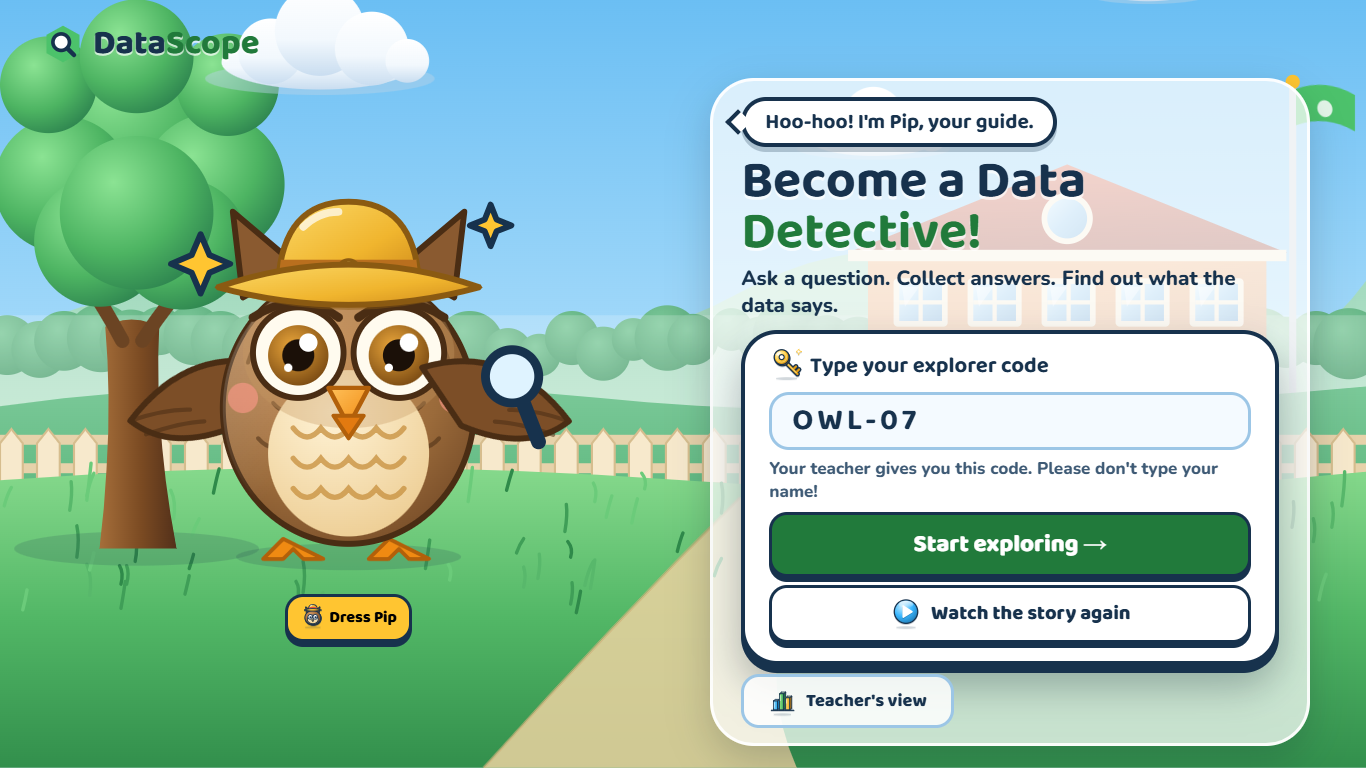
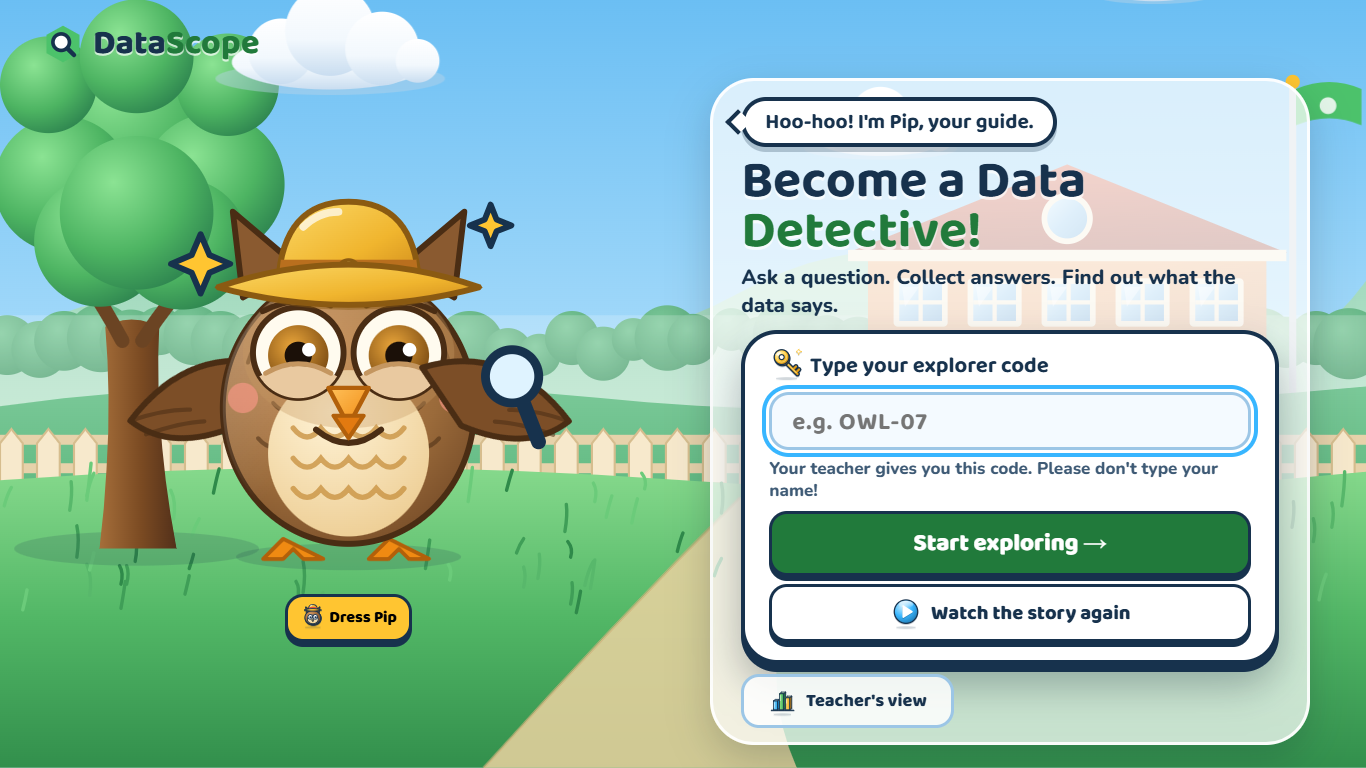
Part 59p++: Pip gets a happy face (soft cheeks, smaller pupils, a beak smile)
- js/pip.js: no eyelids or lines under the eyes (they looked sad); soft light
  cheeks push up under the eyes, smaller pupils with one sparkle, relaxed
  eyebrows and a small smile under the beak. Moods, blink and outfits unchanged.
- docs/design/screens/after/pip-eye-versions-2.png: the versions compared.

diff --git a/js/pip.js b/js/pip.js
@@ -48,12 +48,15 @@ const BODY_FEATHERS = [[29.4, 86.9], [39.6, 97.1], [70.2, 97.1], [80.4, 86.9], [
   .map(([x, y]) => feather(x, y)).join(' ');
 const BELLY_FEATHERS = (y) => `M41.3 ${y} q4.7 6 9.35 0 q4.7 6 9.35 0 q4.7 6 9.35 0 q4.7 6 9.35 0`;
 // One eye: the iris and pupil (in .pip-pupils, so they can look up) are drawn separately.
-const iris = (cx) => `<circle cx="${cx}" cy="58.9" r="10.2" fill="url(#ds-pip-iris)"/><circle class="pip-pupil" cx="${cx}" cy="58.9" r="5.4" fill="#1B1008"/><circle class="pip-shine" cx="${cx + 3.6}" cy="57" r="2.8" fill="#fff"/><circle cx="${cx - 3.4}" cy="63.1" r="1.4" fill="#fff"/>`;
-// Friendly eyes (Habiba, 10 Nov 2026: wide-open eyes looked like a stare):
-// a small resting upper eyelid over the top of each eye, and a soft "smiling"
-// line under it. Bigger lids looked grumpy or sleepy (four versions compared).
-// The blink lids (.pip-lids) still close over them.
-const eyelid = (cx) => `<path d="M${cx - 12.7} 49.5 A15.3 15.3 0 0 1 ${cx + 12.7} 49.5 Q${cx} 51.5 ${cx - 12.7} 49.5Z" fill="#A06E3E" ${LINE}/><path d="M${cx - 10} 66 Q${cx} 71 ${cx + 10} 66" stroke="#4A2D14" stroke-width="1.6" fill="none" stroke-linecap="round" opacity=".5"/>`;
+const iris = (cx) => `<circle cx="${cx}" cy="58.9" r="10.2" fill="url(#ds-pip-iris)"/><circle class="pip-pupil" cx="${cx}" cy="58.9" r="4.6" fill="#1B1008"/><circle class="pip-shine" cx="${cx + 3.6}" cy="57" r="2.3" fill="#fff"/><circle cx="${cx - 3.4}" cy="63.1" r="1.4" fill="#fff"/>`;
+// Happy face (Habiba, 10 Nov 2026: wide eyes looked like a stare, then
+// eyelids and lines under the eyes looked sad, "like he wants to cry"; the
+// versions are compared in docs/design/screens/after/pip-eye-versions.png).
+// Soft light cheeks push up under each eye (a smiling eye shape, no dark
+// line), the pupils are a little smaller with one small sparkle, and a small
+// smile sits under the beak. The blink lids (.pip-lids) close over it all.
+const cheek = (cx) => `<path d="M${cx - 13.1} 66 Q${cx} 59 ${cx + 13.1} 66 A15.3 15.3 0 0 1 ${cx - 13.1} 66Z" fill="#E9C9A0"/><path d="M${cx - 11.1} 65 Q${cx} 58.5 ${cx + 11.1} 65" stroke="#C49660" stroke-width="1.6" fill="none" stroke-linecap="round"/>`;
+
 const WING_LEFT = `<path d="M26 61.4 Q2.2 80.1 12.4 112.4 Q29.4 107.3 34.5 83.5Z" fill="#7C4E27" ${LINE}/><path d="M12.4 112.4 Q15.8 100.5 20.9 93.7 M19.2 110.7 Q22.6 98.8 26.9 92" ${SOFT}/>`;
 const WING_RIGHT = `<path d="M94 61.4 Q117.8 80.1 107.6 112.4 Q90.6 107.3 85.5 83.5Z" fill="#7C4E27" ${LINE}/><path d="M107.6 112.4 Q104.2 100.5 99.1 93.7 M100.8 110.7 Q97.4 98.8 93.1 92" ${SOFT}/>`;
 
@@ -78,17 +81,18 @@ export function pipSVG(label = '', outfit = currentOutfit()) {
     <circle class="pip-eye" cx="43" cy="58" r="15.3" fill="#FFFBEF" ${LINE}/>
     <circle class="pip-eye" cx="77" cy="58" r="15.3" fill="#FFFBEF" ${LINE}/>
     <g class="pip-pupils">${iris(43)}${iris(77)}</g>
-    <g class="pip-eyelids">${eyelid(43)}${eyelid(77)}</g>
+    <g class="pip-cheeks">${cheek(43)}${cheek(77)}</g>
     <g class="pip-lids">
       <ellipse cx="43" cy="58" rx="16" ry="16" fill="#9A6A3A" ${LINE}/>
       <ellipse cx="77" cy="58" rx="16" ry="16" fill="#9A6A3A" ${LINE}/>
     </g>
-    <path class="pip-brows" d="M29 41 Q43 31 55 39 M65 39 Q77 31 91 41" stroke="#4A2D14" stroke-width="2.2" fill="none" stroke-linecap="round"/>
+    <path class="pip-brows" d="M31 44 Q43 38 54 42 M66 42 Q77 38 89 44" stroke="#4A2D14" stroke-width="2" fill="none" stroke-linecap="round"/>
     <circle class="pip-blush" cx="24.3" cy="73.3" r="5.1" fill="#FF9A8B" opacity=".6"/>
     <circle class="pip-blush" cx="95.7" cy="73.3" r="5.1" fill="#FF9A8B" opacity=".6"/>
     ${layer(outfit, 'neck')}
     ${layer(outfit, 'face')}
     ${layer(outfit, 'head')}
+    <path class="pip-smile" d="M49 84 Q60 93 71 84" stroke="#4A2D14" stroke-width="2" fill="none" stroke-linecap="round"/>
     <g class="pip-beak">
       <path d="M53.2 69.9 L66.8 69.9 L60 82.7Z" fill="url(#ds-pip-beak)" stroke="#B2600A" stroke-width="1.5" stroke-linejoin="round"/>
       <path d="M54.9 79.3 L65.1 79.3 L60 86.9Z" fill="#E27A10" stroke="#B2600A" stroke-width="1.4" stroke-linejoin="round"/>

diff --git a/docs/project-notes.md b/docs/project-notes.md
@@ -278,7 +278,8 @@ Parts 42 to 51. Claude commits each part; nothing is pushed until Habiba says "p
 | 59g | 10 Nov | `9b26902` | **Start page in the look of `docs/design/datascope-welcome-ui.html`** (Habiba asked for this design instead of the 6 doors, so there are no doors). The school yard behind the page (`js/scenes/schoolyard.js`: sky, hills with trees, the school, a fence, grass with a path, a big tree); only 3 clouds drift and the school flag waves. Left out (Round 4 and Part 59 rule): the sun, birds, butterfly, flowers, swaying grass and tree, the clock on the school; and the panel's background blur (slow). Sara cheers beside big Pip (his outfit, cheering), "Dress Pip" under them; on the right a light panel: Pip's hello with a tail, the title, and the code card. **Code box (content change):** empty: "Type your code first. It is on the card from your teacher."; wrong: "Hmm, that code does not look right. Check each letter and number, then try again." (was "Codes look like OWL-07 ..."); right: a green tick and "Welcome, explorer CODE! Pip is so happy to see you." Code rules, saving, the story and the Wardrobe intro unchanged. Fits 1366x768 without scrolling; stacks below 900 px. Not logged. |
 | 59s | 10 Nov | `a1f9b13` | **The story in the look of `docs/design/datascope-story-ui-v2.html`** (same 7 scenes, words, sounds, voice and buttons). Each scene has a place drawn on the stage (school yard: Ask, Plan, Mission; classroom: Collect to Conclude), drawn wider and taller than the stage (`PLACE_AREA`) so it reaches the edges of any window; `classroom(area)`, `schoolyard(area)` and `floor(...area)` can draw wider (the rooms are unchanged). The new Sara (`saraSVG(mood, { story: true })`: bobs, blinks, talks, points) and four new classmates (`kidSVG()`: one in a headscarf, one with glasses; talk, yawn, clap), the new Pip. Props after v2: a thought bubble, the sticky guess note and a tick, desks with speech bubbles then four DATA cards, the graph on the whiteboard (Most kids! / Only 1!, WHAT / HOW MANY pills, word labels), the number cards, a how-sure bar and a rolling 3D die, the Evidence Card with a LIKELY! stamp and confetti, a pretend class and "Your mission!". The trail sits on a white pill. **Not from v2:** sun, birds, flowers, butterfly (Round 4); the camera push-in and film grain (motion and speed rules); "a pretend class of 25" (no class size, 6 Nov); v2's 25-kid graph (its centre number is 8, not 9): the story keeps its own numbers (tested). Speed (CPU 4x slower): 60 fps in the busiest scenes. |
 | 59s+ | 10 Nov | `c41c234` | **Sara only in the story (Habiba):** from the Mission scene on, Pip is the main character. Mission scene: no Sara, Pip big in the middle (cheers on the last line). Rooms: no Sara in the left column; big Pip stands there alone and bigger (230 px at 1366), the card stays on the right. Start page: Pip alone and bigger. Tested: no `saraSVG` in the rooms, the start page or the Mission scene. |
-| 59p+ | 10 Nov | (this commit) | **Pip's friendly eyes (Habiba: "he looks kinda scary with those eyes staring"):** a small resting upper eyelid over each eye, a soft smiling line under it, and lighter eyebrows a little higher. Four versions compared (`docs/design/screens/after/pip-eye-versions.png`: big lids looked grumpy or sleepy; C chosen). Blink, wink, look-up and all 16 outfits still work (contact sheet). |
+| 59p+ | 10 Nov | `5ae368c` | **Pip's friendly eyes (Habiba: "he looks kinda scary with those eyes staring"):** a small resting upper eyelid over each eye, a soft smiling line under it, and lighter eyebrows a little higher. Four versions compared (`docs/design/screens/after/pip-eye-versions.png`: big lids looked grumpy or sleepy; C chosen). Blink, wink, look-up and all 16 outfits still work (contact sheet). |
+| 59p++ | 10 Nov | (this commit) | **Pip's happy face (Habiba: with the eyelids "he looks like he wanna cry"):** the eyelids and the lines under the eyes are gone; soft light cheeks push up under each eye (a smiling eye shape, no dark line), the pupils are a little smaller with one small sparkle, the eyebrows are thin and relaxed, and a small smile sits under the beak (`pip-smile`). Compared at the size of the start page (`pip-eye-versions-2.png`: J chosen). Blink, moods, the story's talking beak and all 16 outfits still work. |
 
 **Decision (Habiba, 10 Nov 2026):** Sara appears only in the story (scenes 1 to 6). Pip is the main character from the Mission scene on, on the start page and in every room.
 
